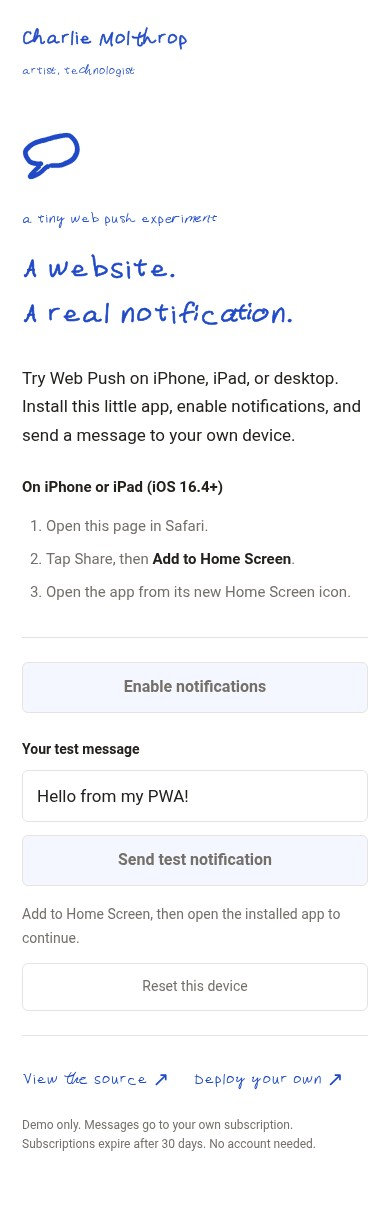
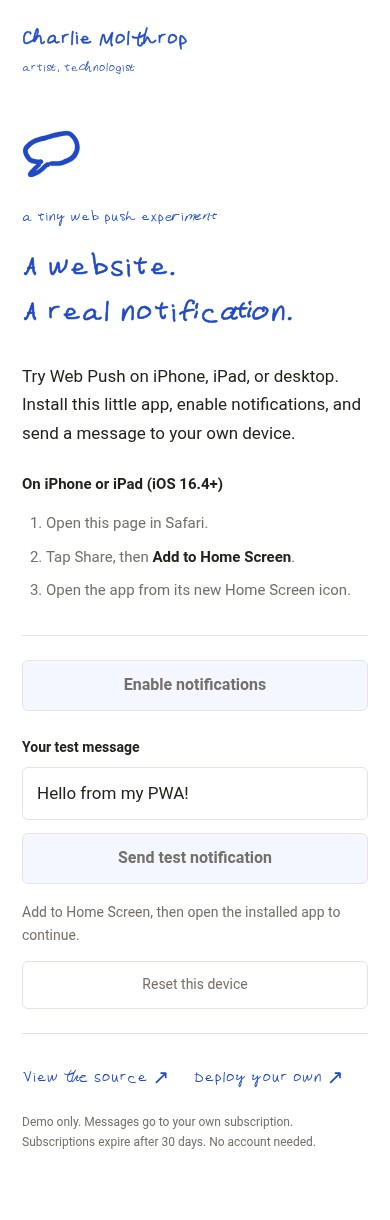
Connect the personal-domain demo through a narrow Val proxy

diff --git a/integration/personal-site-proxy.ts b/integration/personal-site-proxy.ts
@@ -1,0 +1,60 @@
+// Narrow Val Town adapter used by dcm31/personal-site. No DNS changes needed.
+const SITE_ORIGIN = 'https://charliemolthrop.com';
+const VAL_ORIGIN = 'https://dcm31--622d318cce4c11f0862b42dde27851f2.web.val.run';
+const WORKER_ORIGIN = 'https://ios-pwa.charliemolthrop.workers.dev';
+const PREFIX = '/ios-push-pwa-example';
+
+export default async function proxyPushDemo(request: Request): Promise<Response> {
+  const incoming = new URL(request.url);
+  const localError = (message: string, status: number) => Response.json({ error: message }, {
+    status, headers: { 'Cache-Control': 'no-store', 'Access-Control-Allow-Origin': SITE_ORIGIN },
+  });
+  if (incoming.pathname !== PREFIX && !incoming.pathname.startsWith(PREFIX + '/')) return localError('Not found', 404);
+  // Validate the browser's original Origin before adapting it for the upstream.
+  // Never trust client-supplied forwarding headers to establish identity/origin.
+  if (!['GET', 'HEAD'].includes(request.method)) {
+    const origin = request.headers.get('Origin');
+    if (origin !== SITE_ORIGIN && origin !== VAL_ORIGIN) return localError('Same-origin requests required', 403);
+  }
+  const target = new URL(WORKER_ORIGIN);
+  target.pathname = incoming.pathname;
+  target.search = incoming.search;
+  const headers = new Headers({ 'Accept-Encoding': 'identity' });
+  for (const name of ['Accept', 'Authorization', 'Content-Type']) {
+    const value = request.headers.get(name);
+    if (value !== null) headers.set(name, value);
+  }
+  if (!['GET', 'HEAD'].includes(request.method)) headers.set('Origin', WORKER_ORIGIN);
+  // No cookies or spoofable IP headers cross this boundary. Worker IP limits
+  // consequently apply to the Val proxy's egress address, shared by visitors.
+  let upstream: Response;
+  try {
+    upstream = await fetch(target, {
+      method: request.method, headers,
+      body: ['GET', 'HEAD'].includes(request.method) ? undefined : request.body,
+      redirect: 'manual', signal: AbortSignal.timeout(20_000),
+    });
+  } catch {
+    return localError('The demo is temporarily unavailable. Please try again.', 502);
+  }
+  const responseHeaders = new Headers(upstream.headers);
+  // Setting a CORS header suppresses Val Town's default wildcard CORS headers.
+  responseHeaders.set('Access-Control-Allow-Origin', SITE_ORIGIN);
+  responseHeaders.set('Cache-Control', 'no-store');
+  const location = responseHeaders.get('Location');
+  if (location) {
+    const redirect = new URL(location, target);
+    if (redirect.origin !== WORKER_ORIGIN || (redirect.pathname !== PREFIX && !redirect.pathname.startsWith(PREFIX + '/'))) {
+      await upstream.body?.cancel();
+      return localError('Unexpected upstream redirect blocked', 502);
+    }
+    responseHeaders.set('Location', SITE_ORIGIN + redirect.pathname + redirect.search + redirect.hash);
+  }
+  if (request.method !== 'HEAD' && responseHeaders.get('Content-Type')?.includes('text/html')) {
+    const html = (await upstream.text()).replaceAll(WORKER_ORIGIN, SITE_ORIGIN);
+    responseHeaders.delete('Content-Length');
+    responseHeaders.delete('Content-Encoding');
+    return new Response(html, { status: upstream.status, headers: responseHeaders });
+  }
+  return new Response(upstream.body, { status: upstream.status, headers: responseHeaders });
+}

diff --git a/README.md b/README.md
@@ -1,10 +1,10 @@
 # iOS PWA push notifications
 
-**[Try the live demo](https://ios-pwa.charliemolthrop.workers.dev)** · **[Original Val Town source](./index.ts)**
+**[Try the live demo](https://charliemolthrop.com/ios-push-pwa-example/)** · **[Original Val Town source](./index.ts)**
 
 [![Deploy to Cloudflare](https://deploy.workers.cloudflare.com/button)](https://deploy.workers.cloudflare.com/?url=https://github.com/dcm31/iOS-PWA)
 
-[![Screenshot of the live iOS PWA push demo, using Charlie’s handwritten blue styling](./docs/screenshot.jpg)](https://ios-pwa.charliemolthrop.workers.dev)
+[![Screenshot of the live iOS PWA push demo, using Charlie’s handwritten blue styling](./docs/screenshot.jpg)](https://charliemolthrop.com/ios-push-pwa-example/)
 
 [Mobile screenshot](./docs/screenshot-mobile.jpg)
 
@@ -44,11 +44,13 @@ Choose your own Cloudflare account. The repository contains no account ID or cre
 
 The app works at `/` and `/ios-push-pwa-example/`. The [live subpath test](https://ios-pwa.charliemolthrop.workers.dev/ios-push-pwa-example/) exercises the latter. A bare `/ios-push-pwa-example` redirects to the trailing-slash URL. The manifest ID, start URL, scope, asset URLs, local-storage key, and service-worker registration stay inside the selected path. Notification clicks return to that scope.
 
-To mount it on an existing proxied Cloudflare site, add only the exact `/ios-push-pwa-example` route and `/ios-push-pwa-example/*` route for your hostname to this Worker. Inspect existing routes first. Custom-domain DNS/routing is deliberately not included in the remix configuration, so deploying a copy never claims the original site’s hostname. `charliemolthrop.com/ios-push-pwa-example` has not been connected yet: the domain uses Hover nameservers and no corresponding zone is visible through the connected personal Cloudflare account. Hosting that path needs an explicit proxy route in the existing site or a separately planned DNS/hosting change.
+To mount it on an existing proxied Cloudflare site, add only the exact `/ios-push-pwa-example` route and `/ios-push-pwa-example/*` route for your hostname to this Worker. Inspect existing routes first. Custom-domain DNS/routing is deliberately not included in the remix configuration, so deploying a copy never claims the original site’s hostname. The primary demo at [`charliemolthrop.com/ios-push-pwa-example/`](https://charliemolthrop.com/ios-push-pwa-example/) is served by a narrow proxy in the existing Val Town personal-site router. DNS, homepage content, and other routes are unchanged. The adapter source is in [`integration/personal-site-proxy.ts`](./integration/personal-site-proxy.ts); it is specific to this site's deployment and is not loaded by the standalone Workers build. It forwards only this exact path/subtree to the fixed Worker, validates the original browser Origin before adapting it, forwards bearer authorization without cookies or client-supplied IP headers, rewrites canonical/redirect URLs to the personal domain, and retains the scoped service-worker header.
+
+The standalone [workers.dev demo](https://ios-pwa.charliemolthrop.workers.dev) remains available. Each remix deploys its own Durable Object storage and generates its own keys; it does not use this site proxy.
 
 The design uses Charlie’s [Fullerfont](https://github.com/dcm31/myfont) and the existing [hand-drawn speech-bubble icon](https://dcm31--207685866ff511f1a5b41607ee4eb77e.web.val.run/icon/bubble.svg) from [his site](https://charliemolthrop.com/). They are bundled locally, including PNG Home Screen icons. The page follows the site’s blue-on-white and gold-on-dark palette. These assets retain their existing ownership; this repository does not grant a new license for them.
 
-Pages include a descriptive title, description, canonical URL, Open Graph metadata, and a social preview icon. Canonical and social URLs use each deployment’s own origin and path. Screenshots show the actual deployed UI at desktop and mobile widths; the mobile image is browser emulation, not proof of physical iOS delivery.
+Pages include a descriptive title, description, canonical URL, Open Graph metadata, and a social preview icon. Canonical and social URLs use each deployment’s own origin and path. Screenshots show the actual deployed UI: desktop on the standalone Worker, mobile on the personal-domain route. The mobile image is browser emulation, not proof of physical iOS delivery. The personal-domain app also reached “Ready” in a local desktop browser after service-worker registration; the remote screenshot browser received a 403 for that registration, so it was not used as desktop readiness evidence.
 
 ## How the Workers version works
 
@@ -58,7 +60,7 @@ The token stays in that browser's local storage and authorizes only its own subs
 
 Basic abuse controls include HTTPS push-provider allowlisting, blocked redirects, subscription key validation, same-origin POSTs, bounded request/message sizes, 30 API requests/minute and 5 new sessions/hour per IP, and a 10-second send cooldown per installation. Expired subscriptions are removed when a push service returns 404/410.
 
-This remains a **public demo, not a production notification system**. The token is a capability, not a user account; anyone who obtains it can act on that installation. There is no identity verification, endpoint-ownership challenge, distributed bot defense, or delivery guarantee. Shared-IP limits can affect unrelated visitors. Do not use it for sensitive messages or expose a broadcast feature without additional controls.
+This remains a **public demo, not a production notification system**. The token is a capability, not a user account; anyone who obtains it can act on that installation. There is no identity verification, endpoint-ownership challenge, distributed bot defense, or delivery guarantee. Shared-IP limits can affect unrelated visitors. In particular, visitors to the personal-domain demo share the Val proxy’s egress IP, so its 30 API requests/minute and 5 new sessions/hour limits are shared across those visitors. The standalone Worker applies them to connecting client IPs. The 10-second send cooldown remains per installation. Do not use it for sensitive messages or expose a broadcast feature without additional controls.
 
 ## Original Val Town version
 
@@ -74,10 +76,12 @@ The original is less hardened: it has **no authentication or rate limiting, acce
 npm run check
 ```
 
-Runs the build, TypeScript check, Workers-runtime tests, and independent payload-decryption/VAPID-signature checks. Runtime tests cover root/subpath routing and SEO, origin/auth checks, oversized bodies, endpoint/key validation, separate sessions, durable state after eviction, expiry cleanup, send cooldowns, native Workers request construction, and mocked push-service responses/redirects.
+Runs the build, TypeScript check, Workers-runtime tests, and independent payload-decryption/VAPID-signature checks. Proxy checks also verify exact-path routing, hostile/missing Origin rejection, request method/body/query/auth forwarding, cookie/IP-header filtering, canonical/redirect rewriting, and scoped response headers.
+
+Runtime tests cover root/subpath routing and SEO, origin/auth checks, oversized bodies, endpoint/key validation, separate sessions, durable state after eviction, expiry cleanup, send cooldowns, native Workers request construction, and mocked push-service responses/redirects.
 
 A live transport regression was fixed: Workers rejects `redirect: "error"` before sending a request. The sender now uses `manual` and explicitly rejects 3xx responses. A synthetic invalid Apple subscription received an HTTP 400 from Apple after the fix, confirming live provider connectivity without claiming notification delivery. The disposable test session was deleted.
 
-No end-to-end notification delivery test on a physical iPhone has been performed. Local mocked delivery and HTTP smoke checks do not establish iOS delivery. The Deploy button and its build configuration are provided; the full new-account remix/sign-in flow has not been exercised.
+No end-to-end notification delivery test on a physical iPhone has been performed. Local mocked delivery and HTTP smoke checks do not establish iOS delivery. The personal-domain page, SEO, manifest, scoped service worker, assets, session lifecycle, and API error paths were checked live without sending to a user device. The Deploy button and its build configuration are provided; the full new-account remix/sign-in flow has not been exercised.
 
 References: [iOS Web Push](https://webkit.org/blog/13878/) · [Deploy to Cloudflare buttons](https://developers.cloudflare.com/workers/platform/deploy-buttons/) · [Cloudflare configuration](https://developers.cloudflare.com/cf/projects/cloudflare-config/) · [Web Push library](https://github.com/block65/webcrypto-web-push)
